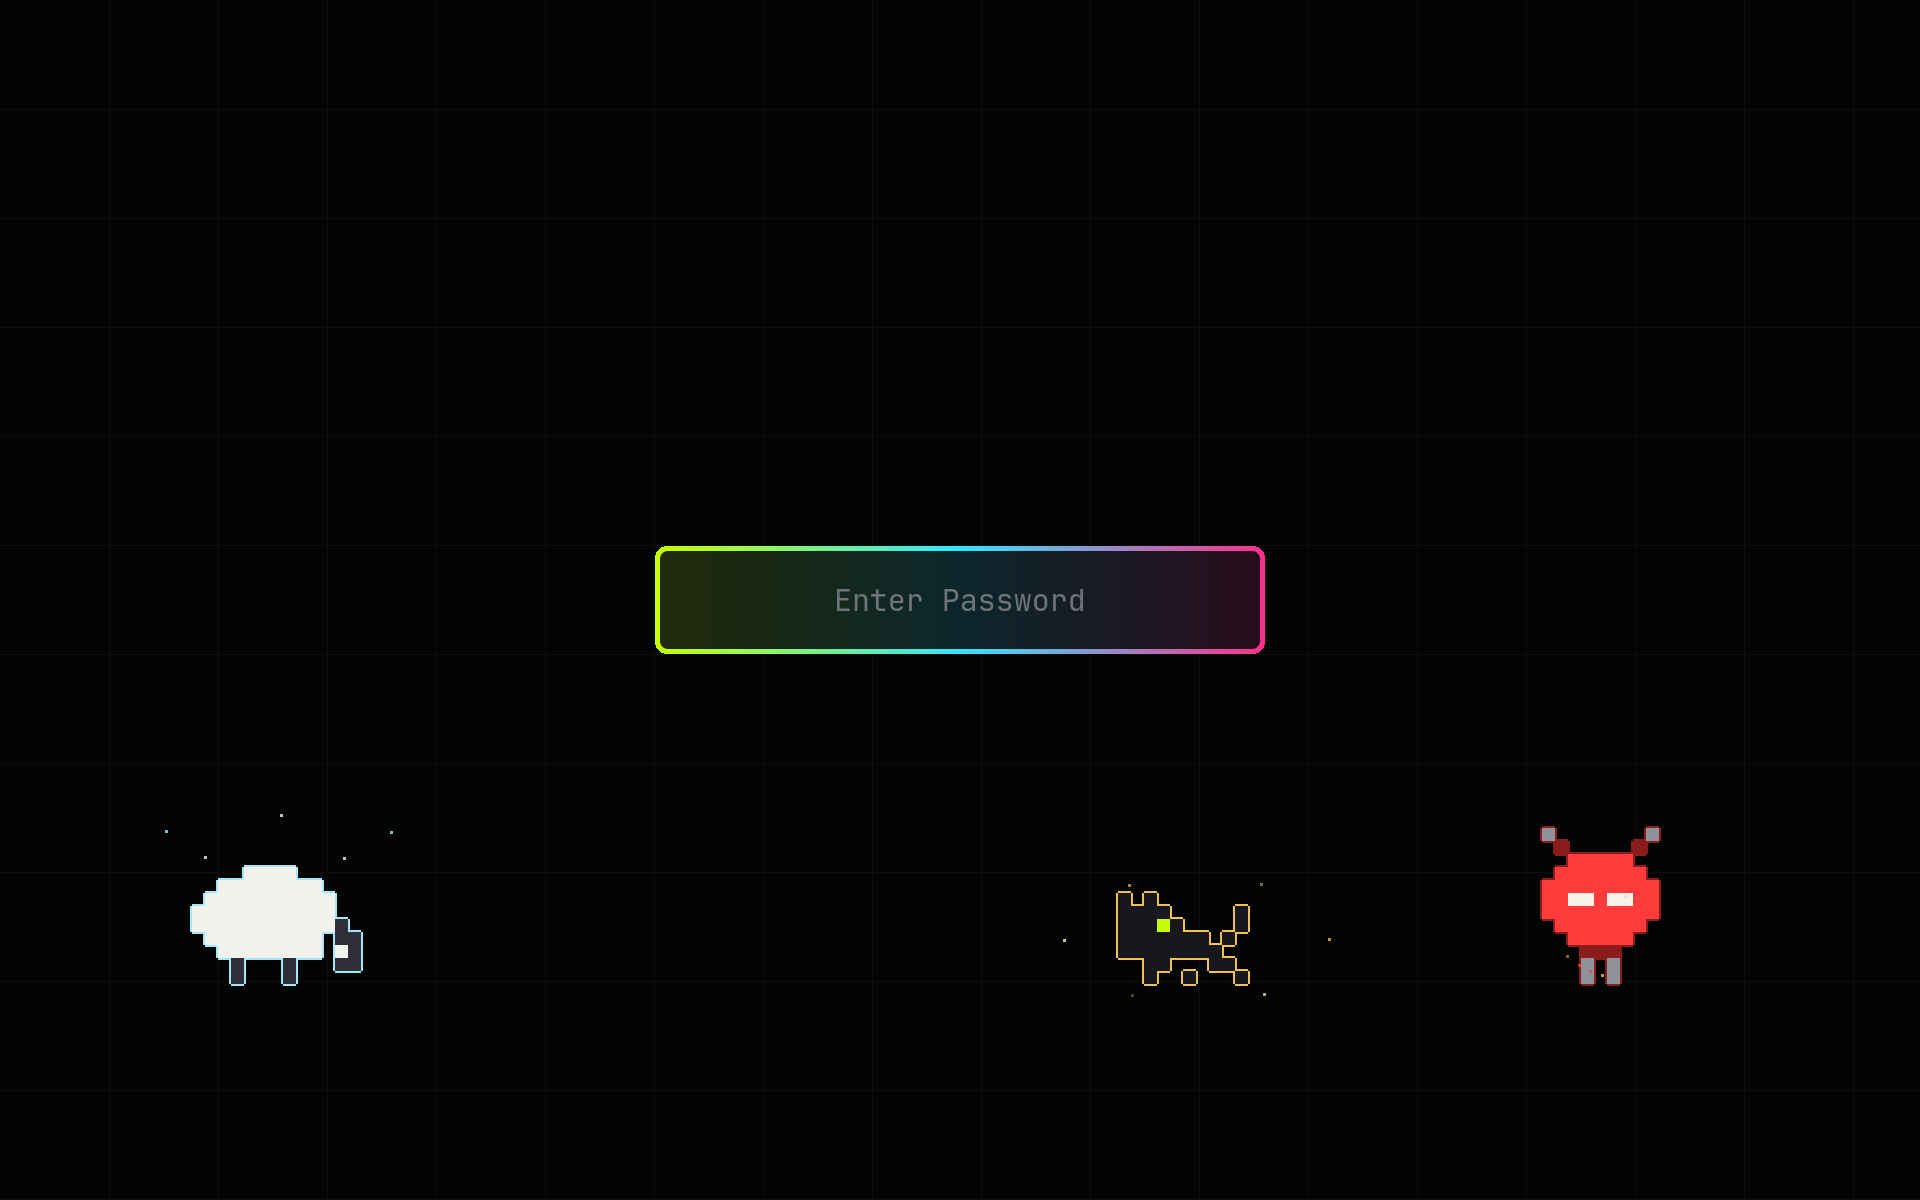
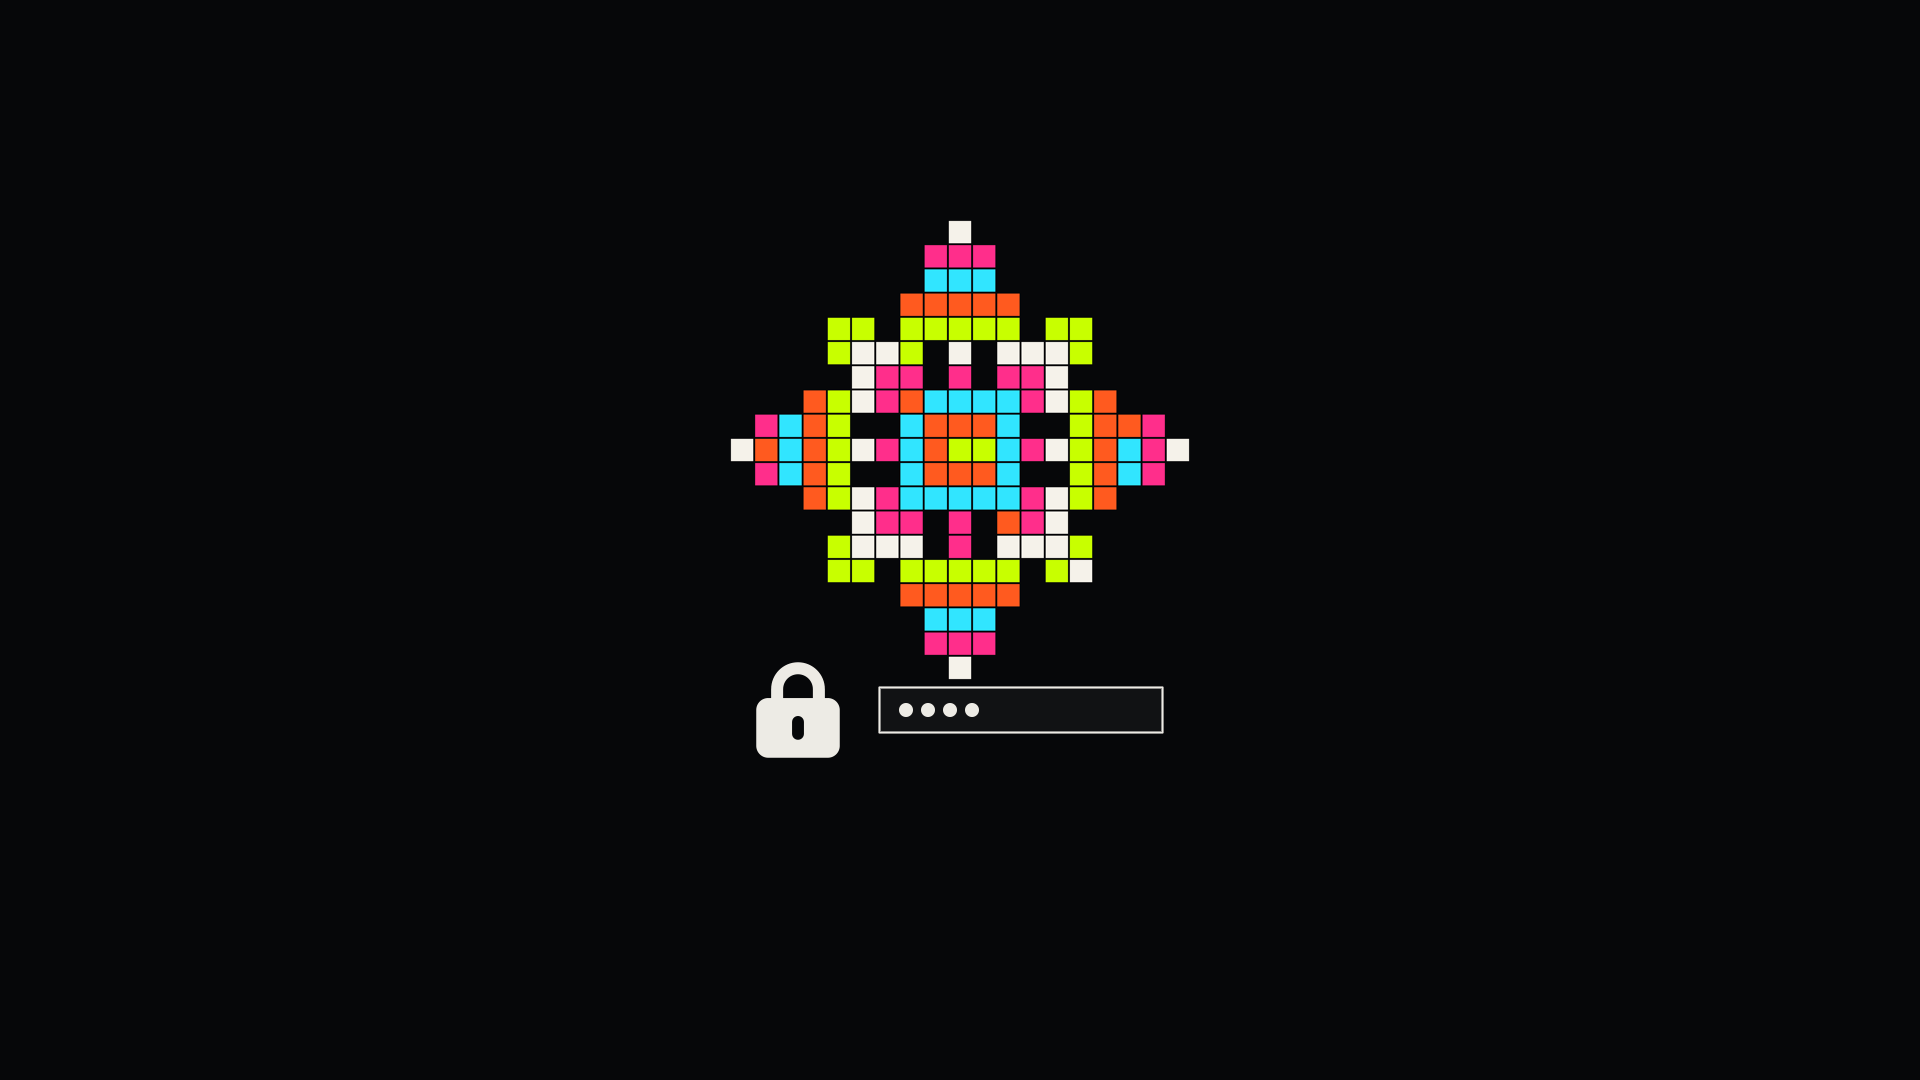
Ship unlock.png, so the boot and login screen can be set
`omarchy plymouth set-by-theme` applies a theme's unlock.png + colors.toml
as the Plymouth boot screen and the SDDM login screen. The theme shipped
no unlock.png, so picking it in the switcher failed with "Logo file not
found" and the login screen stayed on the previous theme.

The mark is the lattice, which carries no text. It is not recoloured by
Omarchy, so it keeps the palette.

preview-unlock.png previewed the wrong screen — it held a shot of the
Quickshell lock screen, while the switcher uses that file to preview the
boot screen. It now mocks the boot screen; the lock screen's own preview
moved to preview-lock.png.

diff --git a/tools/gen_logo.py b/tools/gen_logo.py
@@ -1,0 +1,115 @@
+#!/usr/bin/env python3
+"""Generate the boot/login screen assets.
+
+Omarchy's Plymouth boot screen and its SDDM login screen are set from a theme
+by `omarchy plymouth set-by-theme`, which reads two files from the theme
+directory and nothing else:
+
+    unlock.png          the mark, centred above the password entry. Copied to
+                        both themes as logo.png and NOT recoloured, so it keeps
+                        its own colours. It must be a real file, not a symlink.
+    preview-unlock.png  a 1920x1080 mock of that screen. Its presence is what
+                        makes the theme appear in `omarchy plymouth switcher`.
+
+The mark is the lattice the crew builds — the theme's own art, and the one
+shape here that carries no text.
+
+    python3 -I tools/gen_logo.py [--seed N]
+"""
+
+import argparse
+import os
+import random
+import shutil
+import subprocess
+import sys
+
+sys.path.insert(0, os.path.dirname(os.path.abspath(__file__)))
+
+import sprites as S
+from canvas import Canvas
+
+# The stock assets Omarchy composites under the logo, which the preview apes.
+SDDM_ASSETS = "/usr/share/omarchy/default/sddm/omarchy"
+
+
+def build_logo(path, rng, block=26):
+    """The lattice, on a flat background that is made transparent afterwards."""
+    cells = S.snowflake(rng, radius=9)
+    colors = S.flake_colors(cells, rng)
+    span = max(max(abs(dx), abs(dy)) for dx, dy in cells)
+    size = (span * 2 + 1) * block
+    c = Canvas(size, size, S.BG)
+    cx = cy = size // 2
+    for (dx, dy) in cells:
+        c.rect(cx + dx * block - block // 2 + 1, cy + dy * block - block // 2 + 1,
+               block - 2, block - 2, colors[(dx, dy)])
+    c.write_png(path)
+    return size
+
+
+def main():
+    ap = argparse.ArgumentParser()
+    here = os.path.dirname(os.path.dirname(os.path.abspath(__file__)))
+    ap.add_argument("--out", default=here)
+    ap.add_argument("--seed", type=int, default=20261012)
+    args = ap.parse_args()
+
+    if not shutil.which("magick"):
+        sys.exit("ImageMagick is required to build the login assets.")
+
+    rng = random.Random(args.seed)
+    logo = os.path.join(args.out, "unlock.png")
+    size = build_logo(logo, rng)
+
+    # The flat ground becomes transparency: none of the palette collides with
+    # it, so nothing inside the lattice is punched out by mistake.
+    subprocess.run(["magick", logo, "-transparent", S.BG, logo], check=True)
+    print(f"  unlock.png          {size}x{size}  {os.path.getsize(logo) // 1024} KiB")
+
+    # The preview: the same screen Plymouth will draw. Background and entry
+    # colours come from colors.toml exactly as omarchy-plymouth-set reads them.
+    preview = os.path.join(args.out, "preview-unlock.png")
+    logo_w = 460
+    cmd = ["magick", "-size", "1920x1080", f"xc:{S.BG}"]
+
+    # The mark, centred a little above the middle.
+    cmd += ["(", logo, "-resize", f"{logo_w}x", ")",
+            "-gravity", "center", "-geometry", "+0-90", "-composite"]
+
+    # The lock glyph and the entry box, tinted to the foreground the way
+    # omarchy-plymouth-set tints them.
+    lock = os.path.join(SDDM_ASSETS, "lock.png")
+    entry = os.path.join(SDDM_ASSETS, "entry.png")
+    bullet = os.path.join(SDDM_ASSETS, "bullet.png")
+    if os.path.isfile(lock) and os.path.isfile(entry):
+        # Lock glyph and entry box sit side by side and are centred as one
+        # group, the way the SDDM Main.qml lays them out (a Row with spacing).
+        lock_w, lock_h = 84, 96
+        entry_w, entry_h = 286, 48
+        gap = 38
+        group = lock_w + gap + entry_w
+        lock_x = -group // 2 + lock_w // 2
+        entry_x = group // 2 - entry_w // 2
+        row_y = 170
+
+        cmd += ["(", lock, "-channel", "RGB", "+level-colors", f"{S.FG},{S.FG}", ")",
+                "-gravity", "center", "-geometry", f"{lock_x:+d}{row_y:+d}", "-composite"]
+        cmd += ["(", entry, "-channel", "RGB", "+level-colors", f"{S.FG},{S.FG}", ")",
+                "-gravity", "center", "-geometry", f"{entry_x:+d}{row_y:+d}", "-composite"]
+        if os.path.isfile(bullet):
+            # Four dots typed into the left of the entry box.
+            first = entry_x - entry_w // 2 + 28
+            for i in range(4):
+                cmd += ["(", bullet, "-channel", "RGB",
+                        "+level-colors", f"{S.FG},{S.FG}", ")",
+                        "-gravity", "center",
+                        "-geometry", f"{first + i * 22:+d}{row_y:+d}", "-composite"]
+
+    cmd += [preview]
+    subprocess.run(cmd, check=True)
+    print(f"  preview-unlock.png  1920x1080  {os.path.getsize(preview) // 1024} KiB")
+
+
+if __name__ == "__main__":
+    main()

diff --git a/README.md b/README.md
@@ -100,7 +100,7 @@ lays the captions on afterwards.
 
 ## Unlock screens
 
-![Unlock](preview-unlock.png)
+![Unlock](preview-lock.png)
 
 Four scenes, drawn at random each time the screen locks:
 
@@ -156,6 +156,36 @@ the shell for this reason.
 If Omarchy's own `LockView.qml` gains features, re-clone it and re-apply that
 one block rather than keeping this copy frozen.
 
+## Boot and login screen
+
+Separate from the lock screen above: Omarchy's Plymouth boot splash and its
+SDDM login screen are set from a theme by
+
+```bash
+omarchy plymouth switcher        # pick a theme's boot/login screen
+```
+
+which needs two files, and fails with `Logo file not found` without the first:
+
+| File | What it is |
+|------|-----------|
+| `unlock.png` | the mark, centred above the password entry. Copied to both themes as `logo.png` and **not** recoloured, so it keeps its colours. Must be a real file, never a symlink. |
+| `preview-unlock.png` | a 1920x1080 mock of that screen; its presence is what lists the theme in the switcher. |
+
+Both are generated from the lattice — the one piece of this theme's art that
+carries no text:
+
+```bash
+python3 -I tools/gen_logo.py [--seed N]
+```
+
+The background and entry colours are not stored in either file: Omarchy reads
+`background` and `foreground` straight out of `colors.toml` when it applies
+them.
+
+Note that `preview-unlock.png` previews the *boot* screen. The Quickshell lock
+screen's own preview is `preview-lock.png`.
+
 ## Layout
 
 ```
@@ -165,7 +195,9 @@ icons.theme          Yaru-olive
 chromium.theme       6,7,9
 backgrounds/         six wallpapers
 preview.png          theme picker
-preview-unlock.png   lock screen preview
+unlock.png           boot/login mark (Plymouth + SDDM)
+preview-unlock.png   boot/login screen preview
+preview-lock.png     lock screen preview
 lock/                the unlock screens
   LockView.qml       stock view + one Neon Foundry block
   FoundryScene.qml   picks a scene at random
@@ -173,7 +205,7 @@ lock/                the unlock screens
   FoundryGrid.qml    the grid they move on
   FoundrySprites.js  every sprite matrix, from the site
   Scene*.qml         the four scenes
-tools/               wallpaper generator
+tools/               wallpaper and login-asset generators
 ```
 
 `btop.theme`, `neovim.lua`, the terminal configs and the rest are not shipped
